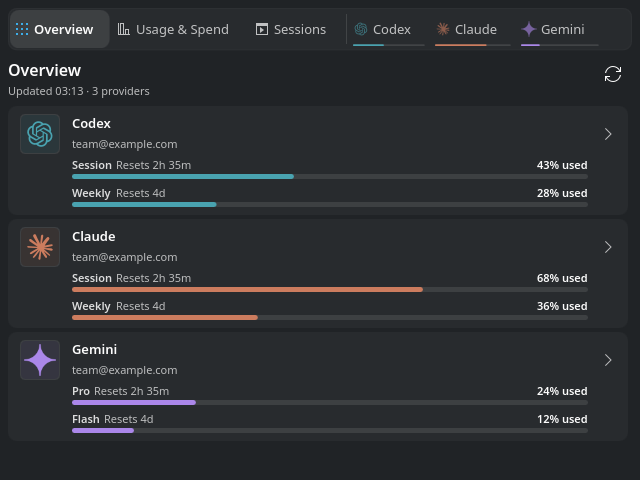
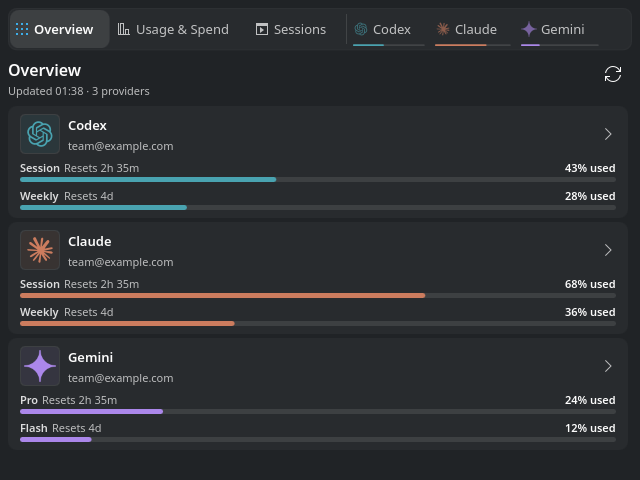
style(popup): give overview quotas the full card width
Separate provider identity from quota rows, center and mirror the navigation arrow, and keep existing native interactions. Verify narrow and mirrored layouts.

Documentation: update the usage guide, Unreleased changelog, Overview capture and README tour. TODO remains unchanged because this layout refinement does not implement any CLI or account parity candidate.

diff --git a/contents/ui/components/OverviewProviderRow.qml b/contents/ui/components/OverviewProviderRow.qml
@@ -92,176 +92,180 @@ Rectangle {
         }
     }
 
-    RowLayout {
+    ColumnLayout {
         id: overviewRowContent
 
         anchors.fill: parent
         anchors.margins: Kirigami.Units.largeSpacing
         anchors.leftMargin: Kirigami.Units.largeSpacing + Kirigami.Units.smallSpacing
         anchors.rightMargin: Kirigami.Units.largeSpacing + Kirigami.Units.smallSpacing
-        spacing: Kirigami.Units.largeSpacing + Kirigami.Units.smallSpacing
+        spacing: Kirigami.Units.smallSpacing
 
-        Rectangle {
-            id: overviewProviderIdentitySurface
+        RowLayout {
+            Layout.fillWidth: true
+            spacing: Kirigami.Units.largeSpacing
 
-            Layout.alignment: Qt.AlignTop
-            Layout.preferredWidth: Kirigami.Units.iconSizes.medium
-                + Kirigami.Units.smallSpacing * 2
-            Layout.preferredHeight: Layout.preferredWidth
-            radius: overviewRow.applet.nestedSurfaceRadius
-            color: overviewRow.applet.withAlpha(overviewRow.accent, 0.1)
-            border.width: 1
-            border.color: overviewRow.applet.withAlpha(Kirigami.Theme.textColor, 0.1)
+            Rectangle {
+                id: overviewProviderIdentitySurface
+
+                Layout.alignment: Qt.AlignVCenter
+                Layout.preferredWidth: Kirigami.Units.iconSizes.medium
+                    + Kirigami.Units.smallSpacing * 2
+                Layout.preferredHeight: Layout.preferredWidth
+                radius: overviewRow.applet.nestedSurfaceRadius
+                color: overviewRow.applet.withAlpha(overviewRow.accent, 0.1)
+                border.width: 1
+                border.color: overviewRow.applet.withAlpha(Kirigami.Theme.textColor, 0.1)
+
+                Kirigami.Icon {
+                    anchors.centerIn: parent
+                    source: overviewRow.applet.providerIconSource(overviewRow.providerData.provider)
+                    fallback: "view-statistics"
+                    isMask: overviewRow.applet.providerIconIsMask(overviewRow.providerData.provider)
+                    color: overviewRow.accent
+                    width: Kirigami.Units.iconSizes.medium
+                    height: Kirigami.Units.iconSizes.medium
+                }
+            }
+
+            ColumnLayout {
+                Layout.fillWidth: true
+                spacing: Kirigami.Units.smallSpacing
+
+                PlainPlasmaLabel {
+                    id: overviewRowTitle
+
+                    text: overviewRow.providerData.title
+                    font.weight: Font.DemiBold
+                    Layout.fillWidth: true
+                    elide: Text.ElideRight
+                }
+
+                PlainPlasmaLabel {
+                    id: overviewRowDetail
+
+                    visible: overviewRow.detail.length > 0
+                    text: overviewRow.detail
+                    font: Kirigami.Theme.smallFont
+                    opacity: overviewRow.applet.secondaryTextOpacity
+                    Layout.fillWidth: true
+                    elide: Text.ElideMiddle
+                }
+            }
 
             Kirigami.Icon {
-                anchors.centerIn: parent
-                source: overviewRow.applet.providerIconSource(overviewRow.providerData.provider)
-                fallback: "view-statistics"
-                isMask: overviewRow.applet.providerIconIsMask(overviewRow.providerData.provider)
-                color: overviewRow.accent
-                width: Kirigami.Units.iconSizes.medium
-                height: Kirigami.Units.iconSizes.medium
+                source: overviewRow.LayoutMirroring.enabled ? "go-previous-symbolic" : "go-next-symbolic"
+                isMask: true
+                color: Kirigami.Theme.textColor
+                opacity: overviewRow.applet.secondaryTextOpacity
+                Layout.alignment: Qt.AlignVCenter
+                Layout.preferredWidth: Kirigami.Units.iconSizes.small
+                Layout.preferredHeight: Kirigami.Units.iconSizes.small
+                Accessible.role: Accessible.Graphic
+                Accessible.ignored: true
             }
         }
 
-        ColumnLayout {
-            Layout.fillWidth: true
-            spacing: Kirigami.Units.smallSpacing
+        Repeater {
+            id: overviewMeters
 
-            PlainPlasmaLabel {
-                id: overviewRowTitle
+            model: overviewRow.meterRows
 
-                text: overviewRow.providerData.title
-                font.weight: Font.DemiBold
+            delegate: ColumnLayout {
+                id: overviewMeter
+
+                required property var modelData
+                readonly property bool captionTruncated: overviewMeterCaption.truncated
+                    || overviewMeterReset.truncated
+
                 Layout.fillWidth: true
-                elide: Text.ElideRight
-            }
+                Layout.topMargin: Kirigami.Units.smallSpacing / 2
+                spacing: Kirigami.Units.smallSpacing / 2
 
-            PlainPlasmaLabel {
-                id: overviewRowDetail
-
-                visible: overviewRow.detail.length > 0
-                text: overviewRow.detail
-                font: Kirigami.Theme.smallFont
-                opacity: overviewRow.applet.secondaryTextOpacity
-                Layout.fillWidth: true
-                elide: Text.ElideMiddle
-            }
-
-            Repeater {
-                id: overviewMeters
-
-                model: overviewRow.meterRows
-
-                delegate: ColumnLayout {
-                    id: overviewMeter
-
-                    required property var modelData
-                    readonly property bool captionTruncated: overviewMeterCaption.truncated
-                        || overviewMeterReset.truncated
+                Item {
+                    id: overviewMeterHeader
 
                     Layout.fillWidth: true
-                    Layout.topMargin: Kirigami.Units.smallSpacing / 2
-                    spacing: Kirigami.Units.smallSpacing / 2
+                    implicitHeight: Math.max(overviewMeterCaption.implicitHeight,
+                        overviewMeterReset.implicitHeight, overviewMeterPercent.implicitHeight)
+                    implicitWidth: overviewMeterCaption.implicitWidth
+                        + overviewMeterReset.implicitWidth + overviewMeterPercent.implicitWidth
+                        + Kirigami.Units.smallSpacing * 2
 
-                    Item {
-                        id: overviewMeterHeader
+                    PlainPlasmaLabel {
+                        id: overviewMeterCaption
 
-                        Layout.fillWidth: true
-                        implicitHeight: Math.max(overviewMeterCaption.implicitHeight,
-                            overviewMeterReset.implicitHeight, overviewMeterPercent.implicitHeight)
-                        implicitWidth: overviewMeterCaption.implicitWidth
-                            + overviewMeterReset.implicitWidth + overviewMeterPercent.implicitWidth
-                            + Kirigami.Units.smallSpacing * 2
-
-                        PlainPlasmaLabel {
-                            id: overviewMeterCaption
-
-                            text: overviewMeter.modelData.label || ""
-                            font.pointSize: Kirigami.Theme.smallFont.pointSize
-                            font.weight: Font.DemiBold
-                            opacity: overviewRow.applet.valueTextOpacity
-                            anchors.left: parent.left
-                            anchors.verticalCenter: parent.verticalCenter
-                            width: Math.min(implicitWidth, Math.max(0,
-                                parent.width - overviewMeterPercent.width - Kirigami.Units.smallSpacing))
-                            elide: Text.ElideRight
-                        }
-
-                        PlainPlasmaLabel {
-                            id: overviewMeterReset
-
-                            text: overviewRow.applet.resetTextForRow(overviewMeter.modelData)
-                            visible: text.length > 0
-                            font: Kirigami.Theme.smallFont
-                            opacity: overviewRow.applet.secondaryTextOpacity
-                            anchors.left: overviewMeterCaption.right
-                            anchors.leftMargin: Kirigami.Units.smallSpacing
-                            anchors.verticalCenter: parent.verticalCenter
-                            width: Math.max(0, parent.width - overviewMeterCaption.width
-                                - overviewMeterPercent.width - Kirigami.Units.smallSpacing * 2)
-                            elide: Text.ElideRight
-                        }
-
-                        PlainPlasmaLabel {
-                            id: overviewMeterPercent
-
-                            anchors.right: parent.right
-                            anchors.verticalCenter: parent.verticalCenter
-                            text: overviewRow.applet.usagePercentText(overviewMeter.modelData)
-                            font.pointSize: Kirigami.Theme.smallFont.pointSize
-                            font.weight: Font.DemiBold
-                            horizontalAlignment: Text.AlignRight
-                        }
+                        text: overviewMeter.modelData.label || ""
+                        font.pointSize: Kirigami.Theme.smallFont.pointSize
+                        font.weight: Font.DemiBold
+                        opacity: overviewRow.applet.valueTextOpacity
+                        anchors.left: parent.left
+                        anchors.verticalCenter: parent.verticalCenter
+                        width: Math.min(implicitWidth, Math.max(0,
+                            parent.width - overviewMeterPercent.width - Kirigami.Units.smallSpacing))
+                        elide: Text.ElideRight
                     }
 
+                    PlainPlasmaLabel {
+                        id: overviewMeterReset
+
+                        text: overviewRow.applet.resetTextForRow(overviewMeter.modelData)
+                        visible: text.length > 0
+                        font: Kirigami.Theme.smallFont
+                        opacity: overviewRow.applet.secondaryTextOpacity
+                        anchors.left: overviewMeterCaption.right
+                        anchors.leftMargin: Kirigami.Units.smallSpacing
+                        anchors.verticalCenter: parent.verticalCenter
+                        width: Math.max(0, parent.width - overviewMeterCaption.width
+                            - overviewMeterPercent.width - Kirigami.Units.smallSpacing * 2)
+                        elide: Text.ElideRight
+                    }
+
+                    PlainPlasmaLabel {
+                        id: overviewMeterPercent
+
+                        anchors.right: parent.right
+                        anchors.verticalCenter: parent.verticalCenter
+                        text: overviewRow.applet.usagePercentText(overviewMeter.modelData)
+                        font.pointSize: Kirigami.Theme.smallFont.pointSize
+                        font.weight: Font.DemiBold
+                        horizontalAlignment: Text.AlignRight
+                    }
+                }
+
+                Rectangle {
+                    Layout.fillWidth: true
+                    Layout.preferredHeight: overviewRow.applet.compactMeterTrackHeight
+                    radius: height / 2
+                    color: overviewRow.applet.withAlpha(Kirigami.Theme.textColor, 0.1)
+                    clip: true
+
                     Rectangle {
-                        Layout.fillWidth: true
-                        Layout.preferredHeight: overviewRow.applet.compactMeterTrackHeight
-                        radius: height / 2
-                        color: overviewRow.applet.withAlpha(Kirigami.Theme.textColor, 0.1)
-                        clip: true
+                        readonly property real shownPercent: overviewRow.applet.displayPercent(overviewMeter.modelData)
 
-                        Rectangle {
-                            readonly property real shownPercent: overviewRow.applet.displayPercent(overviewMeter.modelData)
+                        width: shownPercent <= 0
+                            ? 0
+                            : Math.max(parent.height, parent.width * shownPercent / 100)
+                        height: parent.height
+                        radius: parent.radius
+                        color: overviewRow.applet.quotaMeterColor(
+                            overviewMeter.modelData, overviewRow.accent)
 
-                            width: shownPercent <= 0
-                                ? 0
-                                : Math.max(parent.height, parent.width * shownPercent / 100)
-                            height: parent.height
-                            radius: parent.radius
-                            color: overviewRow.applet.quotaMeterColor(
-                                overviewMeter.modelData, overviewRow.accent)
-
-                            Behavior on color {
-                                ColorAnimation {
-                                    duration: Kirigami.Units.longDuration
-                                }
+                        Behavior on color {
+                            ColorAnimation {
+                                duration: Kirigami.Units.longDuration
                             }
+                        }
 
-                            Behavior on width {
-                                NumberAnimation {
-                                    duration: Kirigami.Units.longDuration
-                                    easing.type: Easing.OutCubic
-                                }
+                        Behavior on width {
+                            NumberAnimation {
+                                duration: Kirigami.Units.longDuration
+                                easing.type: Easing.OutCubic
                             }
                         }
                     }
                 }
             }
-        }
-
-        Kirigami.Icon {
-            source: "go-next-symbolic"
-            isMask: true
-            color: Kirigami.Theme.textColor
-            opacity: overviewRow.applet.secondaryTextOpacity
-            Layout.alignment: Qt.AlignTop
-            Layout.topMargin: Kirigami.Units.smallSpacing * 3
-            Layout.preferredWidth: Kirigami.Units.iconSizes.small
-            Layout.preferredHeight: Kirigami.Units.iconSizes.small
-            Accessible.role: Accessible.Graphic
-            Accessible.ignored: true
         }
     }
 

diff --git a/tests/tst_popup_controls.qml b/tests/tst_popup_controls.qml
@@ -236,7 +236,12 @@ TestCase {
     // Each quota window is named beside its own meter, so a short session
     // window can never stand in for an exhausted weekly one.
     function test_overviewNamesEveryQuotaWindow_data() {
-        return [{tag: "ltr", mirrored: false}, {tag: "rtl", mirrored: true}];
+        return [
+            {tag: "ltr", mirrored: false, width: 540},
+            {tag: "rtl", mirrored: true, width: 540},
+            {tag: "narrow-ltr", mirrored: false, width: 240},
+            {tag: "narrow-rtl", mirrored: true, width: 240}
+        ];
     }
 
     function test_overviewNamesEveryQuotaWindow(data) {
@@ -248,7 +253,7 @@ TestCase {
             ]
         });
         var row = createControl("OverviewProviderRow", {
-            applet: applet, modelData: measured, width: 540
+            applet: applet, modelData: measured, width: data.width
         });
         if (!row)
             return;
@@ -265,6 +270,15 @@ TestCase {
         var percent = findText(row, "57% left");
         verify(caption.width >= caption.implicitWidth);
         verify(reset.width >= reset.implicitWidth);
+        // Quotas span the card inset below the identity, without reserving
+        // side columns for the provider icon and navigation affordance.
+        var title = findText(row, "Codex");
+        var identityHeader = title.parent.parent;
+        var quotaHeader = caption.parent;
+        compare(quotaHeader.width, identityHeader.width);
+        compare(quotaHeader.mapToItem(row, 0, 0).x, identityHeader.mapToItem(row, 0, 0).x);
+        verify(quotaHeader.mapToItem(row, 0, 0).y
+            >= identityHeader.mapToItem(row, 0, identityHeader.height).y);
         if (data.mirrored) {
             verify(percent.x + percent.width <= reset.x);
             verify(reset.x + reset.width <= caption.x);

diff --git a/docs/usage.md b/docs/usage.md
@@ -172,8 +172,10 @@ work and upstream contract requirements.
   detail line shows the account identity when the CLI provides one, and an
   active service incident otherwise; an operational status or the provider's
   own source name is never presented as identity.
-  Provider icons align with the name and account. Each quota name is emphasized
-  separately from its reset, which shortens first when space is limited; the
+  Provider icons and the navigation arrow share an identity header with the
+  name and account. Quota captions and meters span the full content width below
+  that header, giving resets more room in narrow popups. Each quota name is
+  emphasized separately from its reset, which shortens first when space is limited; the
   percentage stays aligned with the end of its meter. Names and resets remain
   visible when the layout is mirrored for right-to-left languages.
 - Screen readers hear what the popup draws. Overview rows describe their

diff --git a/CHANGELOG.md b/CHANGELOG.md
@@ -12,6 +12,10 @@ For earlier versions, see [GitHub Releases](https://github.com/Lucenx9/codexbar-
 
 ### Changed
 
+- Give Overview quotas the full card content width below the provider identity,
+  leaving more room for reset labels and meters. Center the navigation arrow
+  beside the identity and point it toward the reading direction.
+
 - Separate README installation methods and first-run setup, group feature
   dependencies, and show the automatic widget-update default beside setup.
   The interactive terminal command now propagates download failures.
